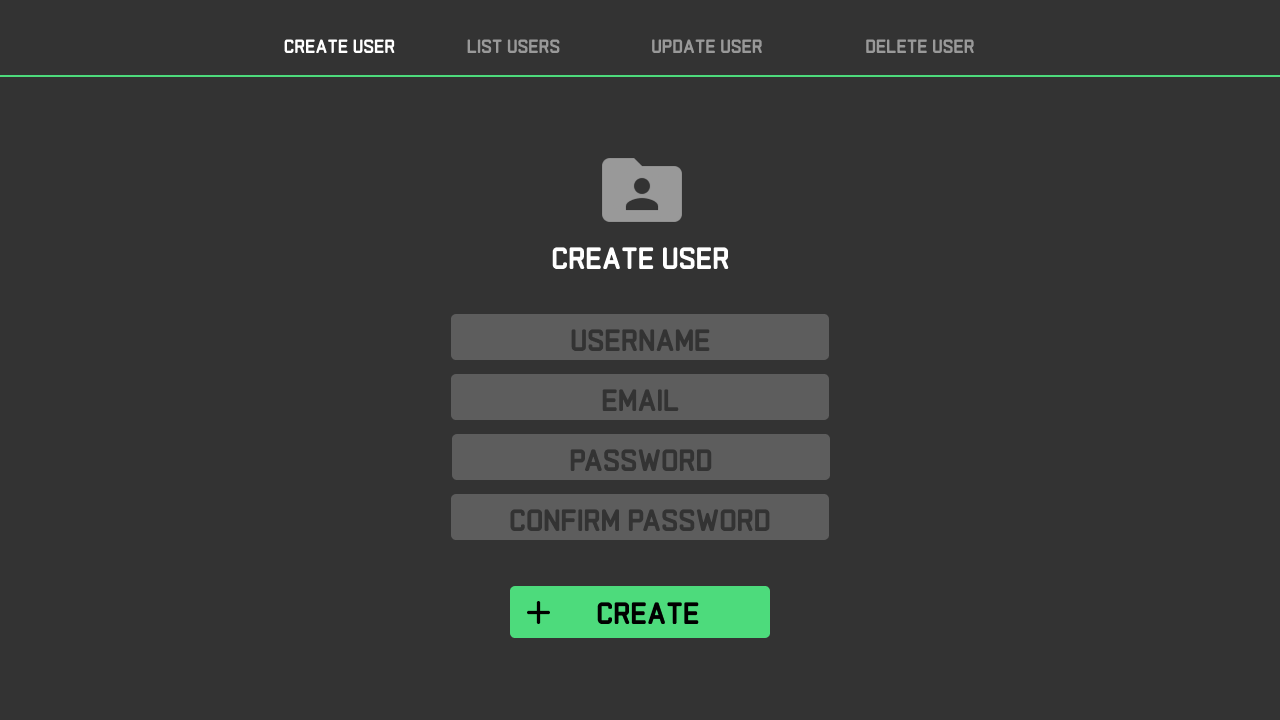
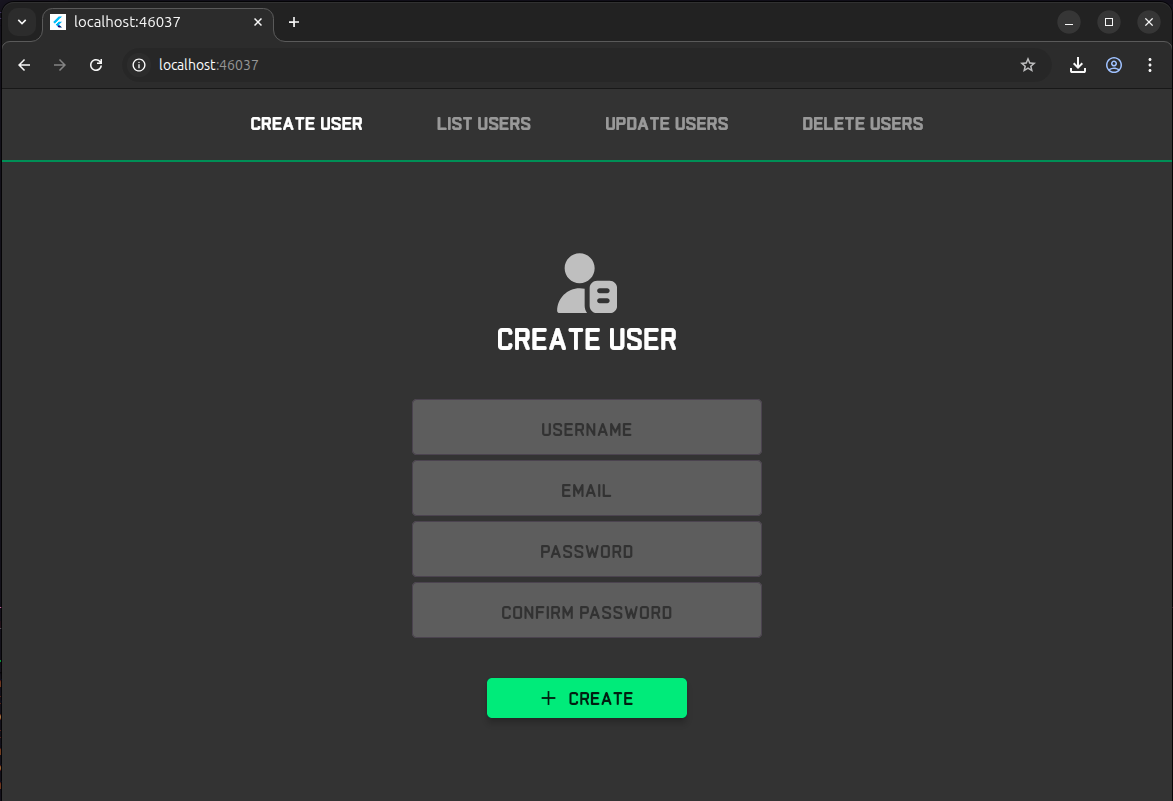
docs(readme): Update README.md
- update preview design images.

diff --git a/README.md b/README.md
@@ -23,7 +23,8 @@ ___
 Obs: all dependencies used can be found in the dependency control files (pyproject.toml and pubspec.yaml).
 ___
 
-### Design Interface created with Figma:
+### 🎨**Preview of the interface created with Flutter:**
+[Design da applicação no Figma](https://www.figma.com/design/bN49sVb90XYx9s1Hpumjqu/Sem-t%C3%ADtulo?m=auto&t=vzVUMUTawlX4mAXg-1)
 
 ![Excalidraw_Project](docs/images/create_user.png)
 
